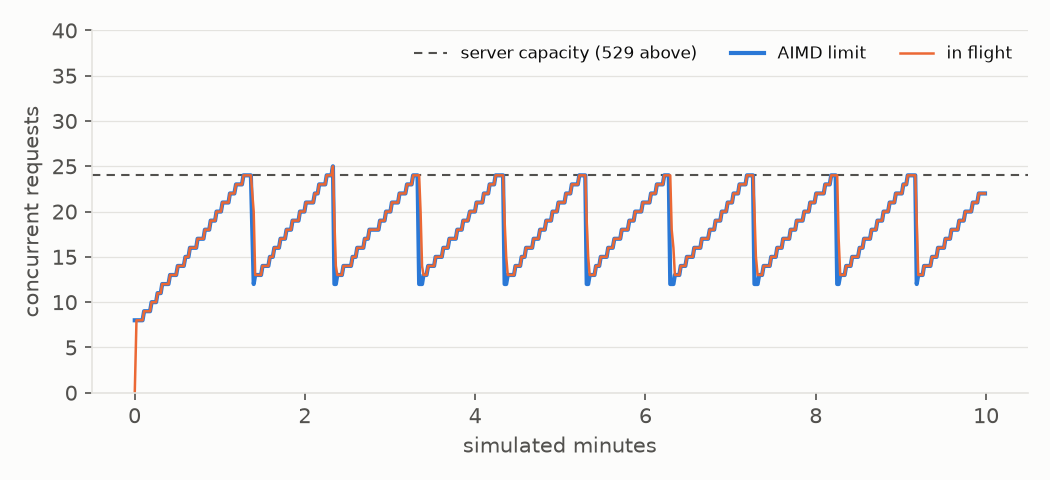
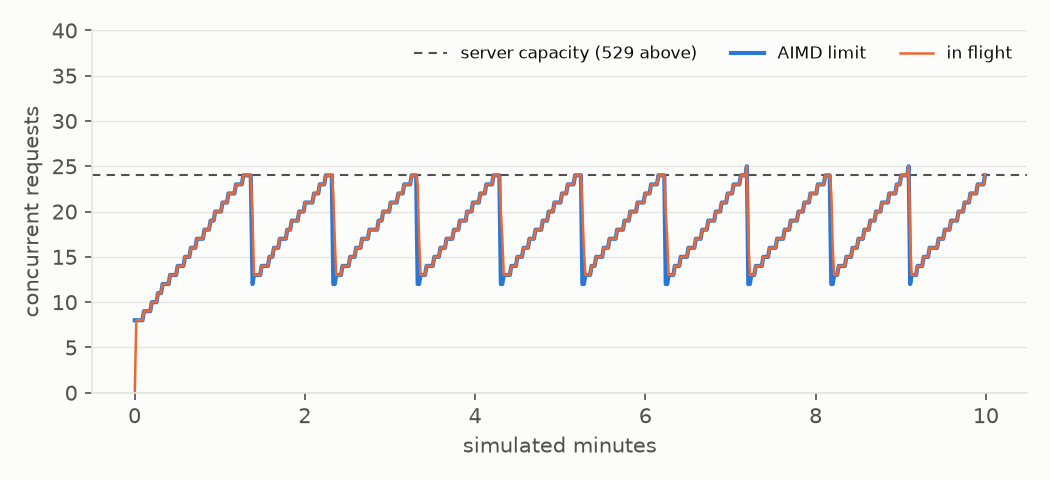
Document budget, cache scope, streaming and batch durability
design.md section 5 now states what each request records (one LLMCall:
the reply, a cache hit or the final error), that the budget caps the
store's total spend with realistic reservations and a bounded overshoot,
that requests are streamed with one timeout retry, and how batch results
survive interrupts and outages; section 4 lists the batch records.
runtime.md explains the same with the reasons, and its measurements and
figure come from a re-run on the streaming path.

diff --git a/docs/runtime.md b/docs/runtime.md
@@ -13,8 +13,8 @@ benchmarks) run without an API key, deterministically, in simulated time.
 | `store.py` | SQLite schema, migrations, typed reads and writes |
 | `llm/gateway.py` | `Gateway`, `GatewayStats`: the request path below |
 | `llm/limiter.py` | token buckets, the AIMD concurrency window, `Admission` |
-| `llm/batch.py` | batch mode: queue, flush, poll, route results |
-| `llm/pricing.py` | prices per model, `cost(usage, model, batch)` |
+| `llm/batch.py` | batch mode: queue, flush, poll, file every result, collect open batches |
+| `llm/pricing.py` | prices per model, `cost(usage, model, batch)`, `reply_cost(reply)` |
 | `llm/models.py` | which models support server-side fallbacks, and to what |
 | `llm/clock.py` | `Clock` protocol: real, scaled and manual time |
 | `llm/client.py` | the SDK surface the gateway uses (a `Protocol`), `make_client` |
@@ -26,18 +26,18 @@ benchmarks) run without an API key, deterministically, in simulated time.
 ```
 create(params, stage, paper_id)
   │
-  ├─ cache hit? ─────────────────────────────► LLMCall(status="cached", $0) ──► reply
-  ├─ budget: spent + in flight + estimate > max? ──► BudgetExceeded
+  ├─ cache hit (readable)? ──────────────────► LLMCall(status="cached", $0) ──► reply
+  ├─ budget: total spent + reserved + this reservation > max? ──► BudgetExceeded
   │
   ├─ online ─┬─ wait for a concurrency slot (AIMD window)
   │          ├─ wait for request / input / output token buckets
-  │          ├─ send via with_raw_response (beta endpoint + fallbacks if supported)
-  │          ├─ 429 / 529 / 5xx / timeout ─► back off, release, try again (≤ max_attempts)
+  │          ├─ stream it (beta endpoint + fallbacks if supported)
+  │          ├─ 429 / 529 / 5xx ─► back off, release, try again (≤ max_attempts; timeouts once)
   │          └─ correct the reservation from usage, learn limits from headers
   │
-  ├─ batch ──── queue ─► Message Batches API ─► poll ─► route result by custom_id
+  ├─ batch ──── queue ─► Message Batches API ─► poll ─► file every result ─► route by custom_id
   │
-  └─ LLMCall(cost from the serving model) ─► refusal? RefusalError : cache and return
+  └─ LLMCall(each attempt at its model) ─► refusal? RefusalError : cache (unless truncated)
 ```
 
 `params` are exactly the keyword arguments of `client.messages.create`, so
@@ -45,8 +45,26 @@ agent code builds requests the way the SDK documents them and the gateway
 never has to understand a prompt. The request hash is
 `sha256(canonical_json(params))`; a stored response for the same hash is
 returned without a request and recorded as a `cached` call that costs
-nothing and counts no tokens (no tokens were processed). Refusals and
-errors are never cached.
+nothing and counts no tokens (no tokens were processed).
+
+What goes into the cache matters as much as what comes out, because a bad
+entry replays forever:
+
+- Replies are stored with the API's field names (`to_dict`), the form
+  `model_validate` reads back. The first version stored SDK field names, and
+  a fallback's `fallback` block (field `from`, attribute `from_`) could then
+  never be read: every resume of that paper failed. A row that no longer
+  validates is now deleted, logged and treated as a miss.
+- Refusals, errors and replies cut off at `max_tokens` are never cached:
+  the caller retries those with different settings or gives up, and a
+  replay would only repeat the failure.
+- Requests are deterministic by design, so retrying a stage that failed on
+  model behaviour would replay the same replies. `Gateway.cache_scope(salt)`
+  mixes a salt into the hash of every request made inside the block (a
+  `ContextVar`, so tasks started inside inherit it): the scheduler wraps the
+  re-execution of a failed stage in `cache_scope(f"attempt-{n}")`, which gets
+  fresh replies, while a crash during that attempt still resumes from its
+  own entries. The empty salt is the plain hash, so existing rows stay valid.
 
 ## Store
 
@@ -134,8 +152,8 @@ request arriving while more than 24 are in flight (64 closed-loop clients,
 
 | Concurrency control | Successful requests/min | Responses that were 529 | Mean in flight |
 |---|---|---|---|
-| AIMD (8 → 64 ceiling) | 241 | 0.6 % | 18.1 |
-| Fixed at 64 | 307 | 53.5 % | 24.1 |
+| AIMD (8 → 64 ceiling) | 244 | 0.5 % | 18.2 |
+| Fixed at 64 | 309 | 52.2 % | 24.1 |
 
 A fixed window gets 27 % more through because the fake's overload answer is
 nearly free (0.1 s) and retries land in the gaps; it does so by sending about
@@ -154,13 +172,28 @@ pause other requests for `retry-after`, would not appear in `GatewayStats`
 or in `LLMCall.attempts`, and its wait would not run on the injectable clock
 the simulations depend on.
 
+Every request is streamed (`messages.stream`, then `get_final_message()`;
+the rate-limit headers come from the stream's response). A reply of 32,000
+output tokens with thinking can take many minutes, and a non-streaming
+request would sit on one HTTP read until `request_timeout_s` (600 s) cut it
+off, after the server had generated, and possibly billed, the tokens. With
+streaming the timeout bounds the wait for each chunk instead. The final
+message is rebuilt as a plain `Message` or `BetaMessage`, so a live reply
+and a cached one are the same type.
+
 | Outcome | Retried | Window | Wait |
 |---|---|---|---|
 | 429 | yes | halve | `retry-after` (+ up to 1 s jitter), all admissions paused |
 | 429 spend cap (`EnforcedSpendLimitReachedError`) | no | - | retrying cannot succeed until the cap resets |
-| 529 | yes | halve | full-jitter exponential backoff |
-| other 5xx, timeouts, connection errors | yes | unchanged | full-jitter exponential backoff |
+| 529, or an `overloaded_error` event inside a started stream | yes | halve | full-jitter exponential backoff |
+| other 5xx, `api_error` events, connection errors | yes | unchanged | full-jitter exponential backoff |
+| timeout | once | unchanged | full-jitter exponential backoff; the request id is logged |
 | other 4xx | no | unchanged | - |
+
+An error inside a stream that has already started arrives from the SDK as
+the base `APIStatusError` with status 200, so it is classified by its
+`type`. A timeout is retried only once: each timed-out attempt may have been
+generated and billed in full, and none of it would be recorded.
 
 Full jitter waits a uniformly random time in `[0, min(60 s, 1 s · 2^(n-1))]`
 before attempt `n + 1`, which spreads a burst of simultaneous failures
@@ -181,11 +214,28 @@ whose final `stop_reason` is `refusal` raises `RefusalError` with
 cached. Every model a fallback may route to is checked for a price when the
 gateway starts.
 
-`budget.max_cost_usd` is enforced before a request is sent: the gateway
-refuses with `BudgetExceeded` when the money already spent, plus the
-estimated cost of requests in flight, plus this request's estimate would
-cross the cap. Counting in-flight estimates keeps 64 concurrent requests
-from all passing the check at once and overshooting together.
+`budget.max_cost_usd` is a cap on the total spend recorded in the store,
+earlier runs included: the gateway starts from the sum of `usage()`
+(`total_spent_usd`; `spent_usd` is this run's share). So `--max-cost 150`,
+interrupted and resumed with `--max-cost 200`, spends at most $200, not
+$350. Before each request the gateway reserves what it may cost and refuses
+with `BudgetExceeded` when the total spent, plus the reservations of
+requests in flight, plus this one would cross the cap. Counting in-flight
+reservations keeps 64 concurrent requests from all passing the check at
+once.
+
+The reservation is deliberately not an average. Its uncached input is
+priced at the cache-write rate of the request's `cache_control` TTL (1.25x
+or 2x the input price), since that is what a cached prompt pays for its new
+part, and its output at the largest reply the stage has produced so far, or
+its whole `max_tokens` before the stage has produced one: the first reader
+turn on Claude Opus 5.5 at 16,000 tokens reserves $0.32. A cap that cannot
+fit even one such request says so in the error instead of quietly admitting
+nothing. The cap can still be overshot by replies longer than their
+reservation; the worst case is every request in flight writing its whole
+`max_tokens`, about `max_concurrency x max_tokens x output price` (64 x
+16,000 x $20/M ≈ $20 on Claude Opus 5.5, twice that for a turn retried at
+32,000 tokens).
 
 ## Pricing and accounting
 
@@ -196,25 +246,30 @@ are easy to get wrong: cache reads are 0.05x the input price on Claude
 Opus 5.5 and Sonnet 5.5 (not the usual 0.1x), and Claude Haiku 5.5 prices a
 whole request at a higher tier once its prompt (uncached, written and read
 tokens together) exceeds 100,000 tokens. The Batch API halves every price.
-A response is priced at the model that served it (`reply.model`), which
-after a fallback is not the model requested. A model with no price is a
+A reply is priced at the model that served it (`reply.model`), which after
+a fallback is not the model requested; when its `usage.iterations` lists
+several attempts (an attempt declined before a fallback, say), each is
+priced at its own model and the costs are summed, since top-level `usage`
+covers only the attempt that produced the reply. A model with no price is a
 configuration error when the gateway starts, never a free call.
 
-Every response becomes one `LLMCall` row: tokens by kind, cost, latency of
-the last attempt (or, in batch mode, from queueing to result), the number of
-attempts, the API request id, and whether it was a batch request. A known
-gap: with a server-side fallback, the declined attempt's tokens are listed
-in `usage.iterations`, but only the serving attempt (top-level `usage`) is
-priced, because whether a declined attempt is billed depends on when and why
-it declined.
+Each request becomes one `LLMCall` row: the reply that came back (status
+`ok` or `refusal`), a `cached` hit, or an `error` row when it failed for
+good. A row holds tokens by kind (top-level `usage`), the cost, the latency
+of the last attempt (or, in batch mode, from queueing to result), the
+number of attempts, the API request id, and whether it was a batch request.
+Failed attempts before a success are counted in `attempts`, not recorded as
+rows of their own.
 
 ## Batch mode
 
 `Gateway(mode="batch")` serves the same `create` calls through the Message
 Batches API at half price. Requests queue until `batch_max_requests` (500)
-are waiting or `batch_max_wait_s` (30 s) after the first one; the batch is
-then polled with doubling intervals from 10 s up to 120 s, its results are
-streamed, and each result resolves the caller waiting on its `custom_id`.
+are waiting, their serialized size reaches `batch_max_bytes` (200 MB, under
+the API's 256 MB), or `batch_max_wait_s` (30 s) after the first one; the
+batch is then polled with doubling intervals from 10 s up to 120 s, its
+results are streamed, and each result resolves the caller waiting on its
+`custom_id`.
 An agent awaiting `create` cannot tell the difference, so the multi-turn
 agents run unchanged: each turn is one request in some batch. The cost is
 latency, minutes per turn instead of seconds, which is acceptable for an
@@ -226,8 +281,35 @@ discount. `errored` items with a server-side error, `expired` and `canceled`
 items, and items missing from the results are requeued together once a
 batch's results have been read (so they share one batch instead of
 trickling into several); `errored` items with `invalid_request_error` would
-fail again and fail the caller at once. `aclose()` sends whatever is queued
-and waits for every batch to finish.
+fail again and fail the caller at once. If the API rejects a whole batch
+with a 4xx (too large, or one malformed request), the batch is split in half
+and each half sent on its own, down to the single request at fault, instead
+of resending the same set until every caller fails.
+
+**Results are paid for once a batch exists, so they are never thrown away.**
+The first version lost them three ways: a polling outage longer than about
+three minutes made it give up on a batch that was still running and send
+its requests again (paying twice); Ctrl-C cancelled the callers, and
+results that then arrived were dropped because only a waiting caller wrote
+the cache; and a connection reset while streaming results failed every
+caller. Now:
+
+- every batch is recorded in the store (`record_batch`: custom id, request
+  hash, stage and paper of each item) as soon as it is created, and closed
+  only when its results have been read;
+- every succeeded result is filed (an `LLMCall` row and a cache entry)
+  whether or not its caller is still waiting;
+- polling and result-stream errors retry the same batch with backoff up to
+  `batch_poll_max_s`, indefinitely; the stream is reopened and entries
+  already filed are skipped; items are requeued only once the batch has
+  ended without them, or the API says it no longer exists;
+- a gateway that starts on a store with open batches collects their results
+  in the background (in either mode), and a batch-mode request whose result
+  is in one of them waits for it instead of being sent again;
+- `aclose()` does not wait: unsent requests are dropped, running batches stay
+  recorded, and their ids are logged with a note that the next run collects
+  them. Before, it waited, silently and up to 24 hours, for every batch to
+  end after the progress view had closed.
 
 Measured with 200 concurrent callers, `batch_max_requests=100`, and a fake
 that errors 8 % and expires 4 % of batch items: the callers were served by
@@ -237,8 +319,9 @@ the same 200 requests online.
 
 ## The fake API
 
-`FakeAnthropic` implements `messages.create`, `messages.with_raw_response.create`,
-the same under `beta.messages`, and `messages.batches.{create,retrieve,results}`,
+`FakeAnthropic` implements `messages.stream`, `messages.create`,
+`messages.with_raw_response.create`, the same under `beta.messages`, and
+`messages.batches.{create,retrieve,results}`,
 and type-checks as the same `AsyncAnthropicLike` protocol as the real client.
 It returns the SDK's own `Message`, `BetaMessage` and `MessageBatch` objects
 and raises the SDK's own exception classes (`RateLimitError`,
@@ -260,7 +343,10 @@ models what the runtime reacts to:
   continuously, answer 429 with `retry-after`, and send the rate-limit
   headers on every response; `set_limits` changes them mid-run.
 - **Faults.** Random or scripted (`fail_next`) 429, 529, 500, timeouts and
-  400s; 529 above a concurrency threshold; errored and expired batch items.
+  400s; an error event or a timeout after a stream has started; 529 above a
+  concurrency threshold; errored and expired batch items; Batches API
+  outages on create, retrieve or mid-way through a results stream
+  (`fail_batch_api`); a 413 for batches over `max_batch_bytes`.
 - **Validation.** The documented 400s for request shapes current models
   reject (`temperature`/`top_p`/`top_k`, thinking budgets, forced
   `tool_choice` on Claude Opus 5.5), 404 for unknown models, and a
@@ -285,18 +371,20 @@ limit is learned from headers. At 450 s the fake halves its request limit.
 
 | Measure | Result |
 |---|---|
-| 429 responses | 0 of 6,144 |
-| Requests/min, 240-450 s (window settled) | 605 of 600 |
-| Requests/min, 60-450 s (includes the ramp) | 558 |
-| Input / output tokens/min, 240-450 s | 606K / 181K |
-| Time for the window to grow from 8 to 45 (enough for 600 RPM) | 176 s |
-| New 300 RPM limit adopted after the change | 1.9 s (the next response) |
-| 30-s windows after the change | mean 300 RPM, max 316 RPM, 0 429s |
+| 429 responses | 0 of 6,141 |
+| Requests/min, 240-450 s (window settled) | 604 of 600 |
+| Requests/min, 60-450 s (includes the ramp) | 557 |
+| Input / output tokens/min, 240-450 s | 605K / 181K |
+| Time for the window to grow from 8 to 45 (enough for 600 RPM) | 175 s |
+| New 300 RPM limit adopted after the change | 1.2 s (the next response) |
+| 30-s windows after the change | mean 300 RPM, max 312 RPM, 0 429s |
 | Failed requests | 0 |
 
-The client runs at the limit without a single 429 because it reads the
-limit from the first response and spends its burst conservatively; the
-0.8 % over in steady state is the 10-second burst spent on top of the refill,
+(Every request in this run is streamed; the numbers match the earlier
+non-streaming run to within scheduling jitter.) The client runs at the
+limit without a single 429 because it reads the limit from the first
+response and spends its burst conservatively; the 0.7 % over in steady
+state is the 10-second burst spent on top of the refill,
 which the server's full-minute bucket absorbs. The slow part is the
 additive increase from the initial window: raising `initial_concurrency`
 shortens the ramp at the risk of an early overload burst.
@@ -312,3 +400,10 @@ shortens the ramp at the risk of an early overload burst.
   the size of the work; use `cached_calls` to see how much was replayed.
 - The fake's cache model ignores the 20-block lookback window and the rule
   that an entry becomes readable only once its writer starts streaming.
+- An online run collects the results of batches an earlier run left open,
+  but does not wait for them: a request whose result is still in such a
+  batch is sent online too, and the batch result is filed when it arrives.
+- Two processes on the same store would both collect an open batch and
+  record its results twice; the store is meant for one writer.
+- `LLMCall` tokens are those of top-level `usage` (the attempt that produced
+  the reply); its cost includes every attempt in `usage.iterations`.

diff --git a/docs/design.md b/docs/design.md
@@ -110,6 +110,11 @@ class Store:
     def cache_put(self, request_hash: str, response: dict[str, Any]) -> None: ...
     def cache_delete(self, request_hash: str) -> None: ...
 
+    # message batches, recorded from creation until their results are read
+    def record_batch(self, batch_id: str, items: Sequence[BatchItem]) -> None: ...
+    def open_batches(self) -> list[tuple[str, list[BatchItem]]]: ...
+    def close_batch(self, batch_id: str) -> None: ...
+
     # runs and corpus artifacts (topics, syntheses, reports, eval results)
     def start_run(self, run_id: str, config: dict[str, Any]) -> None: ...
     def finish_run(self, run_id: str, stats: dict[str, Any]) -> None: ...
@@ -132,12 +137,14 @@ class Gateway:
                  config: Config, clock: Clock | None = None,
                  mode: Literal["online", "batch"] = "online") -> None: ...
     async def create(self, params: dict[str, Any], *, stage: str,
-                     paper_id: str | None = None) -> Message: ...
+                     paper_id: str | None = None) -> Reply: ...  # Message | BetaMessage
     @property
-    def spent_usd(self) -> float: ...
+    def spent_usd(self) -> float: ...       # this run
+    @property
+    def total_spent_usd(self) -> float: ... # everything in the store: what the budget caps
     def stats(self) -> GatewayStats: ...    # in flight, concurrency limit, calls,
                                             # retries, 429s, tokens, cost, ...
-    async def aclose(self) -> None: ...     # flush and wait for pending batches
+    async def aclose(self) -> None: ...     # stop; unfinished batches stay recorded
     @contextmanager
     def cache_scope(self, salt: str) -> Iterator[None]: ...  # see Cache below
 
@@ -168,34 +175,58 @@ The gateway adds the cross-cutting parts:
    `anthropic-ratelimit-*` response headers when a limit is `None`. Input is
    reserved from `util.estimate_tokens`, output from a running average per
    stage; both are corrected from `usage` when the response arrives.
-3. **Retries.** 429, 529, other 5xx, timeouts and connection errors retry
-   with exponential backoff and full jitter, honouring `retry-after`, up to
-   `limits.max_attempts`. Other 4xx errors fail immediately. The SDK's own
-   retries are off (`max_retries=0`) so that every attempt is visible to
-   admission control and accounting.
+3. **Retries.** Every request is streamed (`messages.stream` and
+   `get_final_message()`), so long generations do not hit the HTTP timeout,
+   which bounds each read rather than the whole reply. 429, 529, other 5xx
+   and connection errors retry with exponential backoff and full jitter,
+   honouring `retry-after`, up to `limits.max_attempts`; a timeout is
+   retried once (the server may already have generated and billed the
+   reply) and its request id is logged. Other 4xx errors fail immediately.
+   The SDK's own retries are off (`max_retries=0`) so that every attempt is
+   visible to admission control and accounting.
 4. **Refusals.** With `pipeline.fallbacks`, requests to models that support
    server-side fallbacks carry them. A final `stop_reason == "refusal"`
    raises `RefusalError`; the pipeline marks the stage `refused` and moves on.
-5. **Accounting.** Every attempt that returns is recorded as an `LLMCall`
-   with its usage and its cost from `precis.llm.pricing` (input, output,
-   cache writes and cache reads priced separately; batch requests at the
-   batch discount). `BudgetExceeded` is raised before a request when
-   `budget.max_cost_usd` would be crossed, and the scheduler stops admitting
-   papers.
+5. **Accounting.** Each request is recorded once as an `LLMCall`: the reply
+   that came back (status `ok` or `refusal`, with the number of attempts it
+   took), a `cached` hit, or an `error` row when it failed for good; the
+   failed attempts before a success are counted in `attempts`, not recorded
+   separately. Its cost comes from `precis.llm.pricing` (input, output,
+   cache writes and cache reads priced separately; each entry of
+   `usage.iterations`, such as an attempt declined before a fallback, at its
+   own model; batch requests at the batch discount).
+   **Budget.** `budget.max_cost_usd` caps the total spend recorded in the
+   store, earlier runs included. Before each request the gateway reserves
+   its uncached input at the request's cache-write rate and its output at
+   the largest reply its stage has produced (its whole `max_tokens` until the
+   stage has one), and raises `BudgetExceeded` when spent plus in-flight
+   reservations would cross the cap (saying so when the cap cannot fit even
+   one request); the scheduler then stops admitting papers. Replies longer
+   than their reservation can overshoot by at most about
+   `max_concurrency x max_tokens x output price`.
 6. **Batching.** In `mode="batch"` the gateway queues requests and sends them
-   through the Message Batches API (flush at N requests or after T seconds,
-   poll, route each result back to its waiting caller by `custom_id`).
-   Callers are unchanged: an agent awaiting `create` does not know whether it
-   was served online or by a batch, so the same multi-turn agents run at the
-   batch price.
+   through the Message Batches API (flush at N requests, at
+   `limits.batch_max_bytes`, or after T seconds; poll; route each result back
+   to its waiting caller by `custom_id`). Callers are unchanged: an agent
+   awaiting `create` does not know whether it was served online or by a
+   batch, so the same multi-turn agents run at the batch price. Results are
+   never lost or bought twice: each batch is recorded in the store
+   (`record_batch`) when created, every succeeded result is recorded and
+   cached even if its caller has gone, polling and result errors retry the
+   same batch, and a gateway collects batches earlier runs left open (a
+   request whose result is in one waits for it rather than being resent).
+   `aclose` does not wait for running batches; it leaves them recorded and
+   logs their ids. A batch the API rejects with a 4xx is split in half.
 
 `precis.llm.fake.FakeAnthropic` implements the parts of the SDK client the
-gateway uses (`messages.create`, `messages.with_raw_response.create`, the
-same under `beta.messages`, and `messages.batches`), returning real SDK
-`Message` objects. Behaviour comes from a list of responders
-(`Callable[[dict[str, Any]], FakeReply | None]`; the first non-`None` reply
-wins), plus a latency model, fault injection (429 with `retry-after`, 529,
-500, timeouts) and optional simulated server rate limits. Time comes from an
+gateway uses (`messages.stream`, `messages.create`,
+`messages.with_raw_response.create`, the same under `beta.messages`, and
+`messages.batches`), returning real SDK `Message` objects. Behaviour comes
+from a list of responders (`Callable[[dict[str, Any]], FakeReply | None]`;
+the first non-`None` reply wins), plus a latency model, fault injection (429
+with `retry-after`, 529, 500, timeouts, errors inside a started stream,
+Batches API outages and size limits) and optional simulated server rate
+limits. Time comes from an
 injectable `Clock`; a scaled clock runs a simulated hour in seconds, which is
 what makes the throughput benchmarks fast and deterministic.
 
